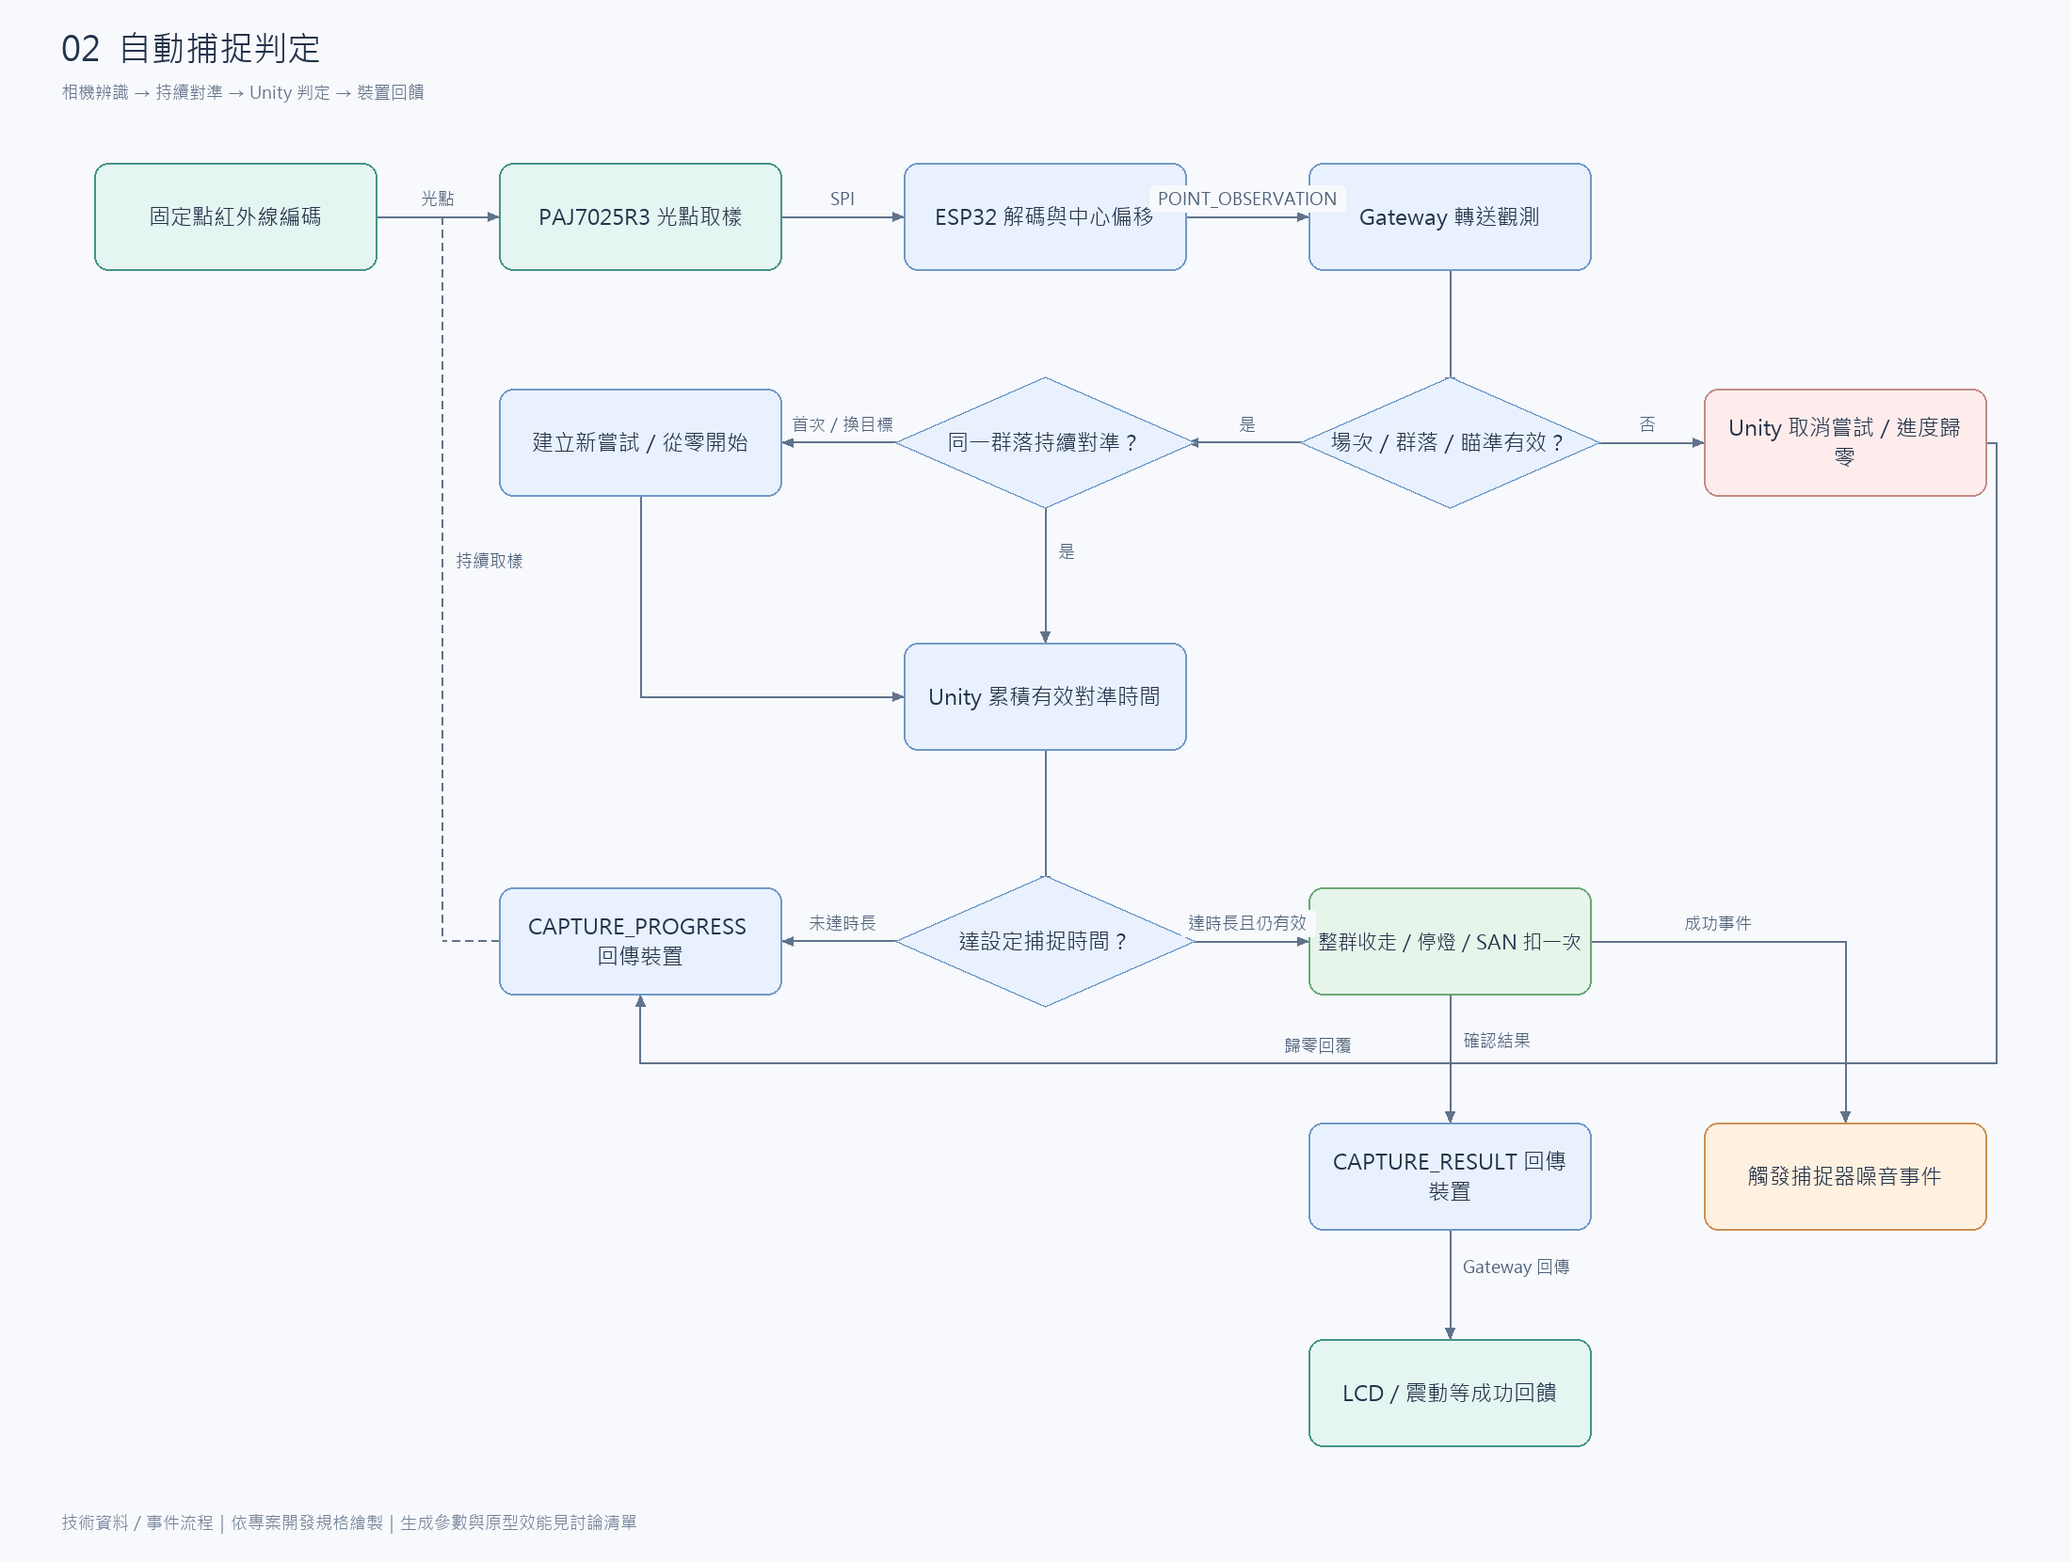
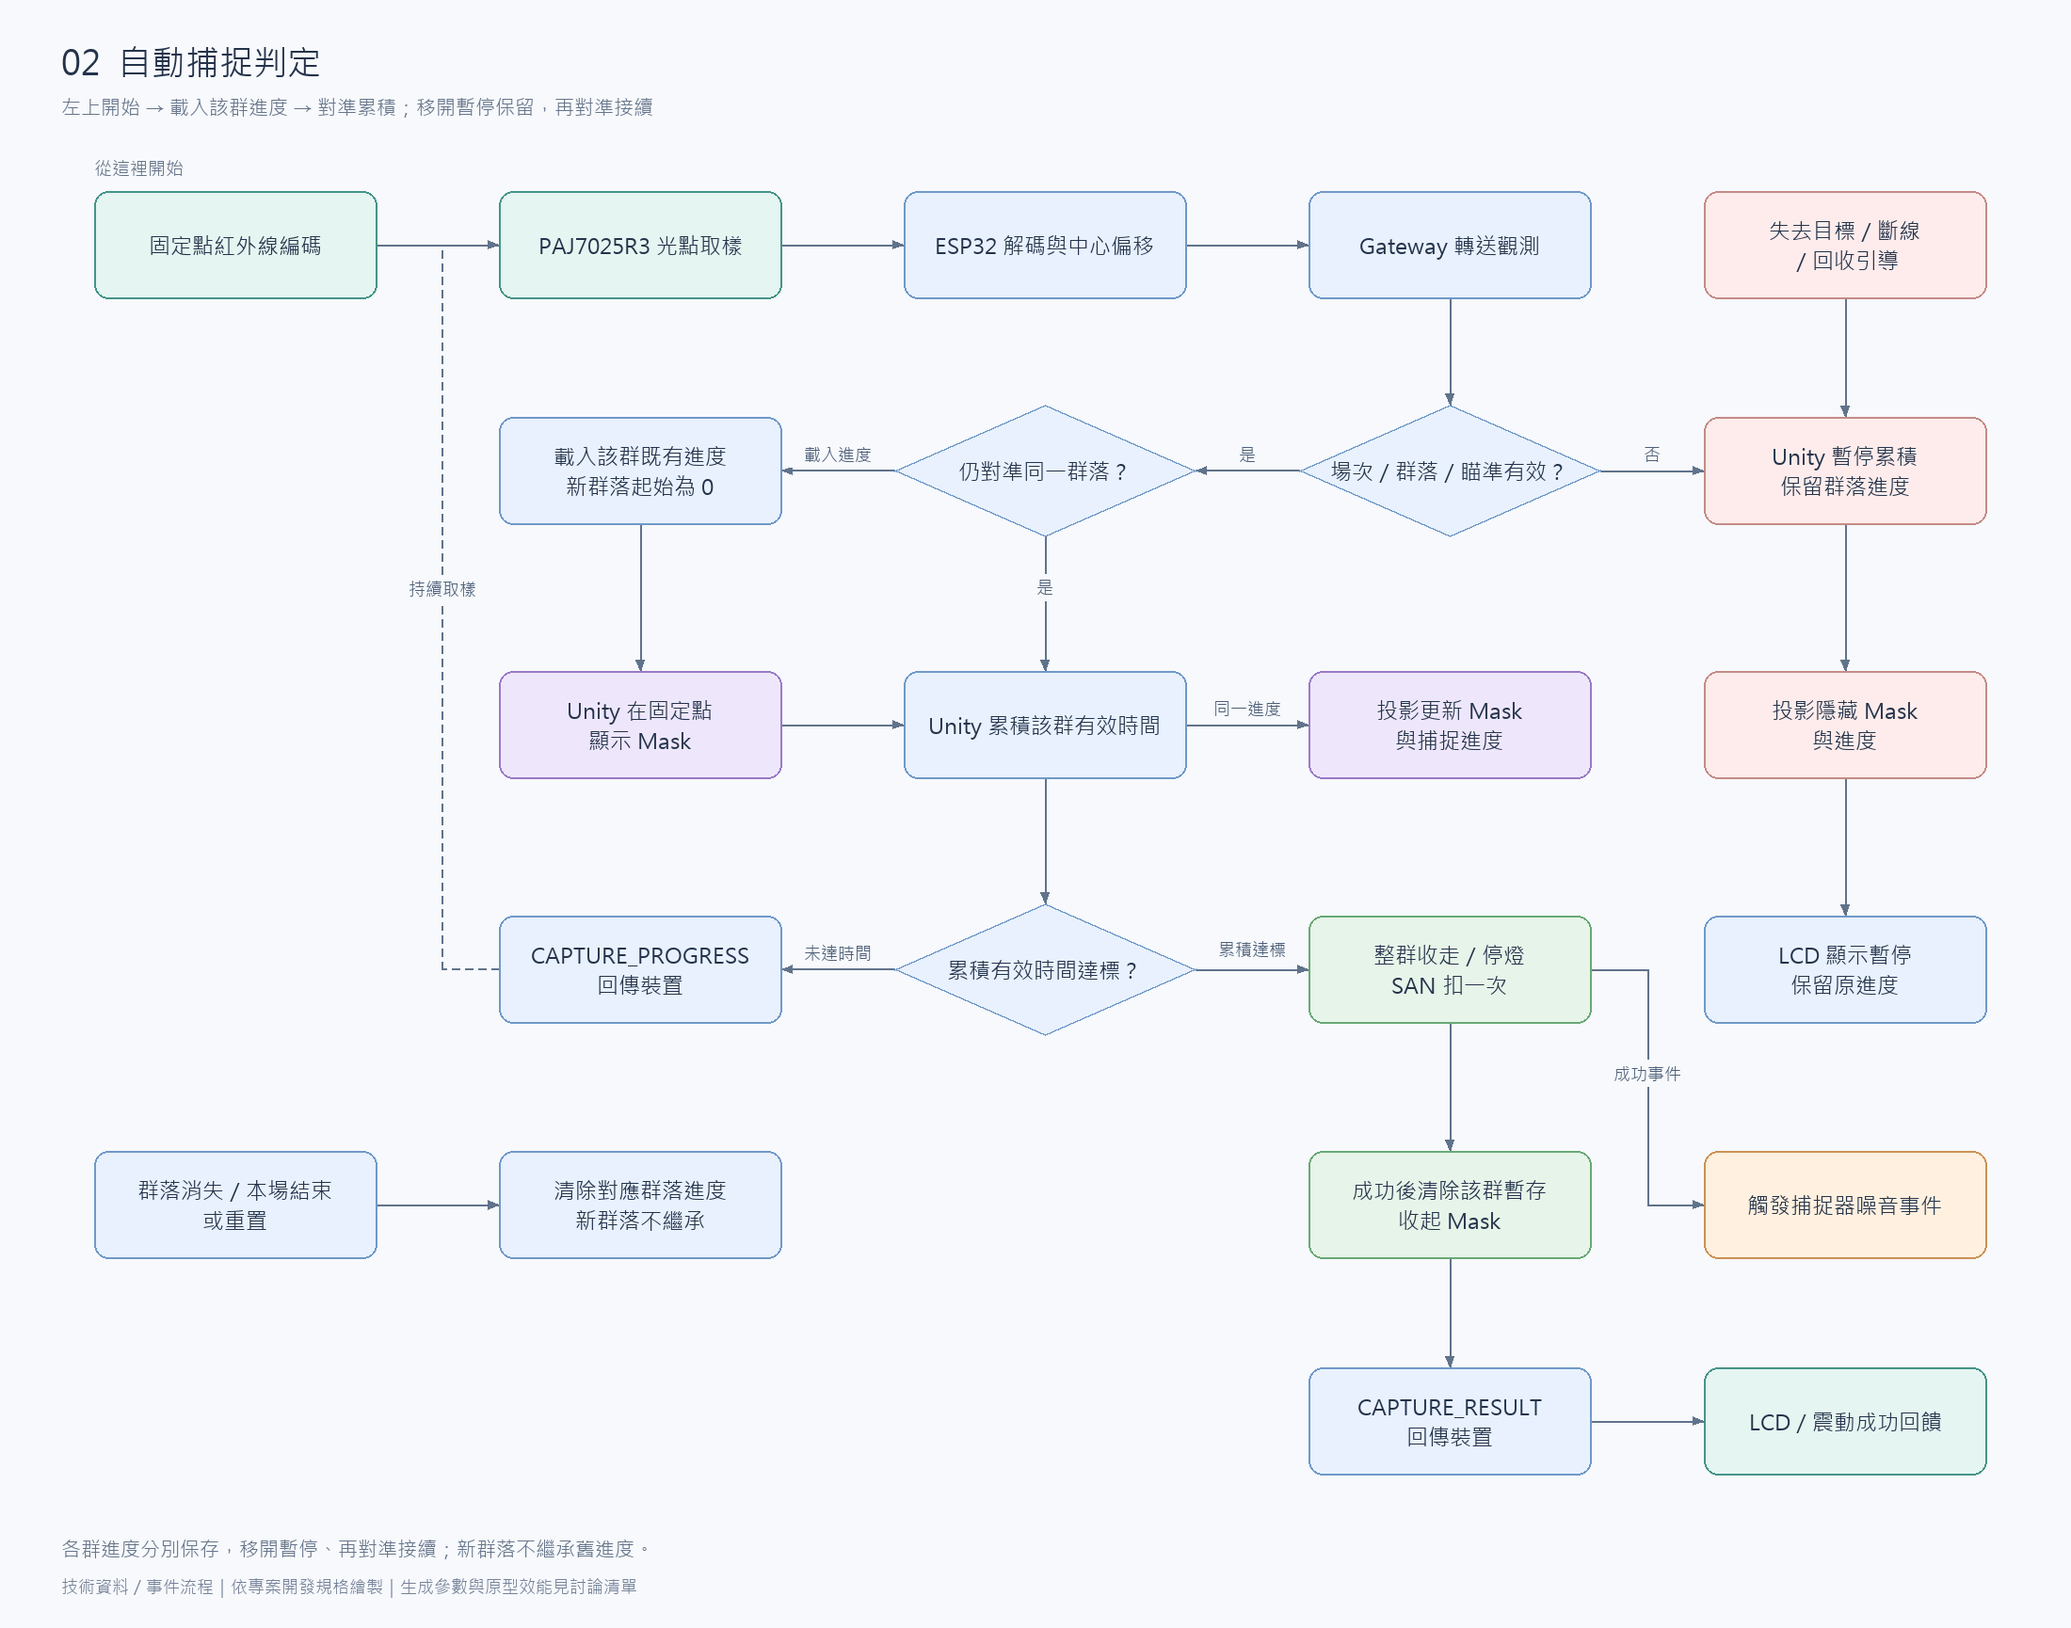
docs: 新增 mask 功能

diff --git a/docs/技術架構.md b/docs/技術架構.md
@@ -2,7 +2,7 @@
 
 日期：2026-11-07
 
-版本：v1.23
+版本：v1.25
 
 用途：供組員了解作品運作方式、軟硬體分工與交付內容。本文件描述規劃架構，不代表已完成實作。
 
@@ -10,7 +10,7 @@
 
 ## 1. 專案概述與功能範圍
 
-本作品為單人城市互動投影。觀眾觀看前導、領取無線捕捉器，在 L 形兩面投影間自由走動，尋找投影中的噪音生物「音虫」。觀眾發聲會擾動音虫；持續用捕捉器對準同一群音虫一段時間，就會自動捕捉，不需按鈕。
+本作品為單人城市互動投影。觀眾觀看前導、領取無線捕捉器，在 L 形兩面投影間自由走動，尋找投影中的噪音生物「音虫」。觀眾發聲會擾動音虫；用捕捉器對準音虫，累積該群所需的有效對準時間後，就會自動捕捉，不需按鈕。
 
 「點位」是音虫的固定出現位置；「群落」是該位置的一隻或一群音虫，也是一次捕捉的單位。「SAN」是遊戲內的精神值，每次成功捕捉扣一次；達任務條件或 SAN 限制後，停止接受新捕捉並引導觀眾回收。
 
@@ -74,10 +74,10 @@ Unity 成果 → Gateway 保存／上傳 → 雲端資料與音樂素材 → Nex
 1. **點位設定：** 例如 A01 是長牆的一個出現點，B01 是側牆的一個出現點；各自對應一顆紅外線燈。
 2. **呈現與燈控：** Unity 協調音虫出現／消失與該點紅外線發射燈的狀態。
 3. **辨識與對準：** 相機讀取光點的閃爍編碼，認出點位；光點接近感測視野中心時，表示捕捉器正對準該群音虫。點位設定已包含所屬牆面。
-4. **自動捕捉：** 持續對準同一群音虫，系統辨識有效目標後自動累積進度，LCD／投影同步顯示；達設定時間且群落仍有效才結算，不需按鈕。移開或改對其他目標時進度歸零。
+4. **光罩與自動捕捉：** 辨識到有效音虫點位且對準後，Unity 在該點顯示照射範圍光罩（Mask）與捕捉進度，LCD 同步顯示進度；該群累積的有效對準時間達設定值才結算，不需按鈕。移開或換目標時隱藏原光罩、保留該群進度；再次對準同一群時恢復光罩並接續；成功後收起光罩。
 5. **回饋：** 成功後整群消失、該點停燈、SAN 扣一次，LCD 更新並提供震動回饋。Unity 協調噪音播放與新群落誕生，新群落出現時啟用該點的燈。同一點可換不同種類；點位編碼不變，新群落重新計算捕捉進度。
 
-捕捉器辨識的是固定光點，不逐隻追蹤畫面中的音虫，也不量測觀眾在展場的完整位置。觀眾可走動及轉向兩面牆，捕捉時維持對準即可。
+捕捉器辨識的是固定光點，不逐隻追蹤畫面中的音虫，也不量測觀眾在展場的完整位置。觀眾可走動及轉向兩面牆，捕捉時維持對準即可。Mask 固定顯示於已辨識的音虫點位，不隨手自由掃過整面牆。
 
 ## 6. 聲音、NFC 回收與紀念品
 
@@ -98,7 +98,7 @@ Unity 成果 → Gateway 保存／上傳 → 雲端資料與音樂素材 → Nex
 
 | 項目 | 交付內容 |
 | --- | --- |
-| 城市與雙牆畫面 | 各牆比例、場景、接縫、固定出現點，以及能量轉化物品與城市修復動畫 |
+| 城市與雙牆畫面 | 各牆比例、場景、接縫、固定出現點、點位照射光罩（Mask）與捕捉進度，以及能量轉化物品與城市修復動畫 |
 | 音虫 | 種類、群落外觀、固定小範圍內快速不規則運動、出現／消失及捕捉動畫 |
 | 實體安裝 | 發射燈固定、走線、捕捉器外殼與 NFC 感應位置 |
 | 捕捉器 UI | 像素風 SAN、搜尋、鎖定、捕捉進度、成功、失效、電量及回收確認提示；以電容觸控及 LVGL 實作頁籤點按／滑動切頁 |
@@ -107,6 +107,6 @@ Unity 成果 → Gateway 保存／上傳 → 雲端資料與音樂素材 → Nex
 
 ## 8. 場次與資料流程
 
-準備 2～3 支捕捉器，每場由管理端選定並啟用一支，其他待機。換備機時停用舊機操作、保留收集紀錄並清除捕捉進度與 NFC 已感應狀態；新機須重新感應。結尾與成果 QR 交付完成、本機成果保存成功後才重置並開放下一場。Unity 是狀態來源，裝置不自行修改 SAN 或收集數量。
+準備 2～3 支捕捉器，每場由管理端選定並啟用一支，其他待機。換備機時停用舊機操作、保留收集紀錄及各群落捕捉進度，只清除目前瞄準狀態與 NFC 已感應狀態；新機須重新感應。結尾與成果 QR 交付完成、本機成果保存成功後才重置並開放下一場。Unity 是狀態來源，裝置不自行修改 SAN 或收集數量。
 
 Gateway 將 Unity 的每場成果存入本機資料庫；尚未上傳的成果排入佇列，復線後補傳，遊戲重置不刪除。Next.js 的成果頁與 API 部署於雲端，觀眾以本場成果 QR Code 開啟，離場後仍可查看。另在展場主機提供工作人員管理頁，查看連線、電量、場次、回收與成果同步狀態。

diff --git a/docs/技術流程圖.md b/docs/技術流程圖.md
@@ -70,7 +70,7 @@ flowchart LR
 
 ## 2. 自動捕捉判定
 
-從左上相機取樣開始，沿箭頭看 Unity 是否接受目標、累積進度及確認成功。CAPTURE_PROGRESS 是進度回報，CAPTURE_RESULT 是成功／失敗結果；只有成功才扣 SAN。移開或換目標會歸零，捕捉不需按鈕。
+從左上相機取樣開始，沿箭頭看 Unity 是否接受目標、累積進度及確認成功。CAPTURE_PROGRESS 是進度回報，CAPTURE_RESULT 是成功／失敗結果；只有成功才扣 SAN。移開或換目標時暫停並保留該群進度，再對準同一群就接續；捕捉不需按鈕。
 
 ![自動捕捉判定](assets/技術流程圖/02.png)
 
@@ -86,37 +86,54 @@ flowchart LR
   decodePoint["ESP32 解碼與中心偏移"]
   observation["Gateway 轉送觀測"]
   validateTarget{"場次／群落／瞄準有效？"}
-  resetAttempt["Unity 取消嘗試／進度歸零"]
-  sameTarget{"同一群落持續對準？"}
-  newAttempt["建立新嘗試／從零開始"]
-  progress["Unity 累積有效對準時間"]
-  durationReached{"達設定捕捉時間？"}
+  pauseCapture["Unity 暫停累積／保留群落進度"]
+  hideMask["投影隱藏 Mask 與進度"]
+  pausedDisplay["LCD 顯示暫停／保留原進度"]
+  captureInterrupted["失去目標／斷線／回收引導"]
+  sameTarget{"仍對準同一群落？"}
+  loadProgress["載入該群既有進度／新群落起始為 0"]
+  showMask["Unity 在固定點顯示 Mask"]
+  maskProgress["投影更新 Mask 與捕捉進度"]
+  finishMask["成功後清除該群暫存／收起 Mask"]
+  progress["Unity 累積該群有效時間"]
+  durationReached{"累積有效時間達標？"}
   feedback["CAPTURE_PROGRESS 回傳裝置"]
   commitCapture["整群收走／停燈／SAN 扣一次"]
   captureResult["CAPTURE_RESULT 回傳裝置"]
-  deviceOutput["LCD／震動等成功回饋"]
+  deviceOutput["LCD／震動成功回饋"]
   noiseEvent["觸發捕捉器噪音事件"]
+  groupEnded["群落消失／本場結束或重置"]
+  discardProgress["清除對應群落進度／新群落不繼承"]
   irSample --> sensorRead --> decodePoint --> observation --> validateTarget
-  validateTarget -->|"否：移開或資料無效"| resetAttempt
-  resetAttempt --> feedback
+  validateTarget -->|"否：移開或資料無效"| pauseCapture
+  pauseCapture --> hideMask --> pausedDisplay
+  captureInterrupted --> pauseCapture
   validateTarget -->|"是"| sameTarget
-  sameTarget -->|"否：首次或換目標"| newAttempt
-  newAttempt --> progress
+  sameTarget -->|"否：首次或換目標"| loadProgress
+  loadProgress --> showMask --> progress
   sameTarget -->|"是"| progress
   progress --> durationReached
+  progress -->|"同一份 Unity 進度"| maskProgress
   durationReached -->|"否"| feedback
   feedback -.->|"繼續取樣"| sensorRead
-  durationReached -->|"是：群落仍有效"| commitCapture
-  commitCapture --> captureResult --> deviceOutput
+  durationReached -->|"是：累積達標且群落有效"| commitCapture
+  commitCapture --> finishMask --> captureResult --> deviceOutput
   commitCapture --> noiseEvent
-  style resetAttempt fill:#FFCDC2,stroke:#FF7556
+  groupEnded --> discardProgress
+  style pauseCapture fill:#FFCDC2,stroke:#FF7556
   style commitCapture fill:#CDF4D3,stroke:#66D575
   style noiseEvent fill:#FFE0C2,stroke:#FF9E42
+  style showMask fill:#DCCCFF,stroke:#874FFF
+  style maskProgress fill:#DCCCFF,stroke:#874FFF
+  style hideMask fill:#FFCDC2,stroke:#FF7556
+  style finishMask fill:#CDF4D3,stroke:#66D575
 ```
 
 </details>
 
-觀測資料含點位、目前目標版本、取樣序號／時間及中心偏移；目標版本由 Unity 同步，紅外線只提供固定點位識別。capture_attempt_id 用於同一次捕捉的進度與結果去重；新群落不繼承舊進度。圖中的繼續取樣表示資料循環，相機持續運作，不是收到回覆才拍下一幀。
+Unity 接受有效對準後，在音虫固定點位顯示照射範圍光罩（Mask）與捕捉進度；LCD 使用同一進度。移開或換目標時隱藏原光罩、保留該群進度，再對準同一群就恢復光罩並接續；成功後收起光罩；光罩不隨手自由掃過整面牆。此為圖中進度與成功回饋的投影呈現，不新增硬體或事件。
+
+觀測資料含點位、目前目標版本、取樣序號／時間及中心偏移；目標版本由 Unity 同步，紅外線只提供固定點位識別。capture_attempt_id 用於該群本場捕捉的進度與結果去重，暫停／恢復不更換；各群進度分別保存，新群落不繼承舊進度。圖中的繼續取樣表示資料循環，相機持續運作，不是收到回覆才拍下一幀。
 
 ## 3. 聲音擾動與新音虫誕生
 

diff --git a/docs/重要連結.md b/docs/重要連結.md
@@ -31,7 +31,7 @@
 #### 紅外線接收與點位識別
 
 - [PAJ7025R3 紅外線定位模組／樣品包](https://www.codico.com/en/paj7025r3-sample-kit-cdc)：廣角紅外線光點感測器與採購資料，依實際套件內容使用。
-- [PAJ7025R3 原廠資料表（PDF）](https://www.codico.com/media/productattach/p/i/pixart_paj7025r3_-_productbrief_2461050_4.pdf)：SPI、電壓、光點輸出及取樣設定；點位閃爍編碼由本案韌體解讀，識別固定點而非種類；同點可再出現不同種類。投影音虫不隨識別編碼閃爍。
+- [PAJ7025R3 原廠資料表（PDF）](https://www.codico.com/media/productattach/p/i/pixart_paj7025r3_-_productbrief_2461050_4.pdf)：SPI、電壓、光點輸出及取樣設定；點位閃爍編碼由本案韌體解讀，識別固定點而非種類；同點可再出現不同種類。投影音虫不隨識別編碼閃爍。 捕捉進度由 Unity 按群落保存；移開暫停，再對準同一群接續，新群落不繼承舊進度。
 - [OpenFIRE ESP32 專案](https://github.com/alessandro-satanassi/OpenFIRE-Firmware-ESP32)：PAJ7025R3 驅動、追蹤與無線的實作參考；相機可偵測多光點，本案點位身分識別由自製韌體處理，不直接採用四點整牆定位。
 - [PixArt 追蹤實作與 PCB 參考](https://github.com/trzy/PixArt)：以 PAJ7025R2 為主，可參考接線與主機端運算；不是 R3＋ESP32-S3 可直接套用的完整方案。
 

diff --git a/docs/待確認與驗證清單.md b/docs/待確認與驗證清單.md
@@ -7,7 +7,7 @@
 ## 1. 紅外線捕捉
 
 - [ ] 正式有幾個出現點、最多同時出現幾群音虫？
-- [ ] 自動捕捉時間：原型建議先以 **有效持續對準 3 秒**為基準，視測試再比較 2／5 秒；正式秒數尚未定案。分別量測點位首次辨識延遲與有效對準計時，不能把延長等待當作辨識正確的保證；確認頻繁重試、手部疲勞與進度回饋是否影響體驗。
+- [ ] 自動捕捉時間：原型建議先以 **同一群累積有效對準 3 秒**為基準，視測試再比較 2／5 秒；正式秒數尚未定案。分別量測點位首次辨識延遲與有效對準計時，不能把延長等待當作辨識正確的保證；驗證移開暫停、換群分別保存、再次對準接續及新群不繼承舊進度，並確認手部疲勞與進度回饋是否影響體驗。
 - [ ] **原型測試：** 長牆 2 點＋側牆 1 點，在 0.5／1／1.5 公尺、斜掃、轉角及手部晃動時，能否在捕捉時間內正確讀出不同閃爍編碼？並確認群落亂動範圍與對準容許範圍相符。量測多點編碼、反射光及亮暗間隔下的辨識率，確認光點重現後不會錯配點位；相機能看到多點不等於已能可靠辨認各點。
 - [ ] **安裝測試：** 幕材是否擋紅外線、燈是否需要外露，以及投影光、現場照明與遮擋是否影響辨識？
 

diff --git a/docs/器材清單.md b/docs/器材清單.md
@@ -29,7 +29,7 @@
 
 ## 2. 無線捕捉器
 
-以下數量為**一支原型**，不另外重複購買整套捕捉器。捕捉器、固定燈控板及 NFC 回收座均以 PlatformIO 開發韌體。
+以下數量為**一支原型**，不另外重複購買整套捕捉器。捕捉器、固定燈控板及 NFC 回收座均以 PlatformIO 開發韌體。 自動捕捉依各群累積的有效對準時間計算；移開暫停保留，再對準同一群接續，進度由 Unity 保存。
 
 | 器材／候選型號 | 原型數量 | 用途／配置 | 參考單價 | 台灣來源／資訊 |
 | --- | --- | --- | --- | --- |
